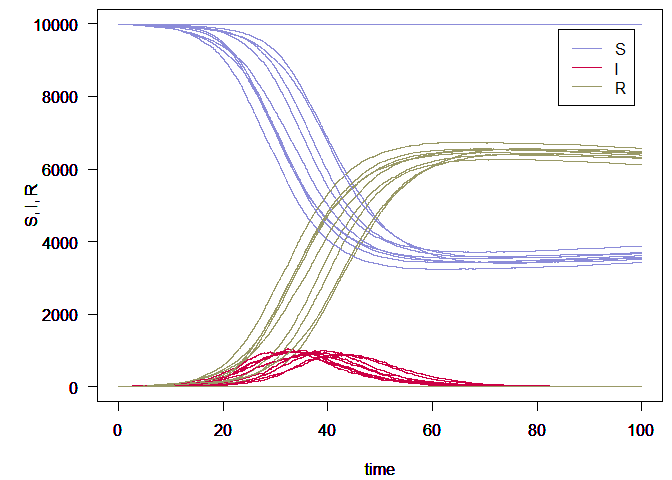
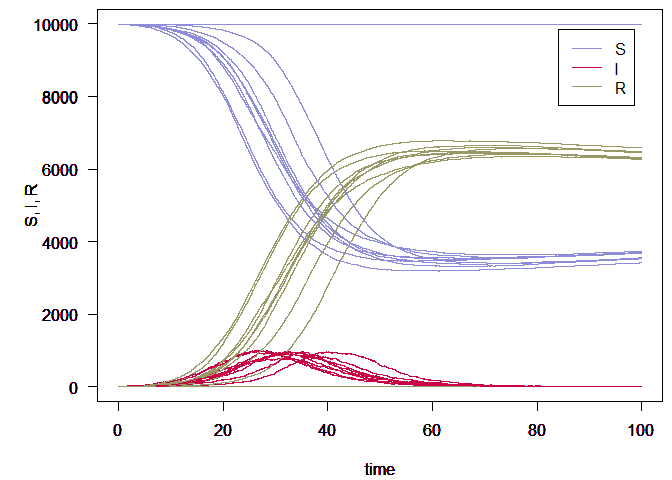
Added latest figures and updated Readmes

Changed region(s): [[0.2188, 0.0312, 0.9688, 0.8125], [0.0625, 0.1875, 0.125, 0.2188]]

diff --git a/README.md b/README.md
@@ -47,13 +47,16 @@ draw with `n = I` and `p = sigma * dt`. Note, N = S + I + R.
 This is a basic example which shows you how to solve a common problem.
 The model is run once for 10,000 iterations with a time step of 0.01
 
-<div class="figure">
+    #> Warning in par(mar = c(4.1, 5.1, 0.5, 0.5), las = 1, new = TRUE): calling
+    #> par(new=TRUE) with no plot
 
-<img src="man/figures/README-unnamed-chunk-2-1.png" alt="SIR simulation run once, N= 10000, dt = 0.01" width="100%" />
+<div class="figure" style="text-align: center">
+
+<img src="man/figures/README-unnamed-chunk-2-1.png" alt="SIR simulation run once, N = 10,000 and dt = 0.01" width="100%" />
 
 <p class="caption">
 
-SIR simulation run once, N= 10000, dt = 0.01
+SIR simulation run once, N = 10,000 and dt = 0.01
 
 </p>
 
@@ -65,13 +68,13 @@ step of 0.01 using the same code.
     #> Warning in par(mar = c(4.1, 5.1, 0.5, 0.5), las = 1, new = TRUE): calling
     #> par(new=TRUE) with no plot
 
-<div class="figure">
+<div class="figure" style="text-align: center">
 
-<img src="man/figures/README-unnamed-chunk-3-1.png" alt="SIR simulation run 10 times, N= 10000, dt = 0.01" width="100%" />
+<img src="man/figures/README-unnamed-chunk-3-1.png" alt="SIR simulation run 100 times, N = 10,000 and dt = 0.01" width="100%" />
 
 <p class="caption">
 
-SIR simulation run 10 times, N= 10000, dt = 0.01
+SIR simulation run 100 times, N = 10,000 and dt = 0.01
 
 </p>
 
@@ -80,6 +83,3 @@ SIR simulation run 10 times, N= 10000, dt = 0.01
 ## License
 
 MIT © Imperial College of Science, Technology and Medicine
-
-In that case, don’t forget to commit and push the resulting figure
-files, so they display on GitHub\!
